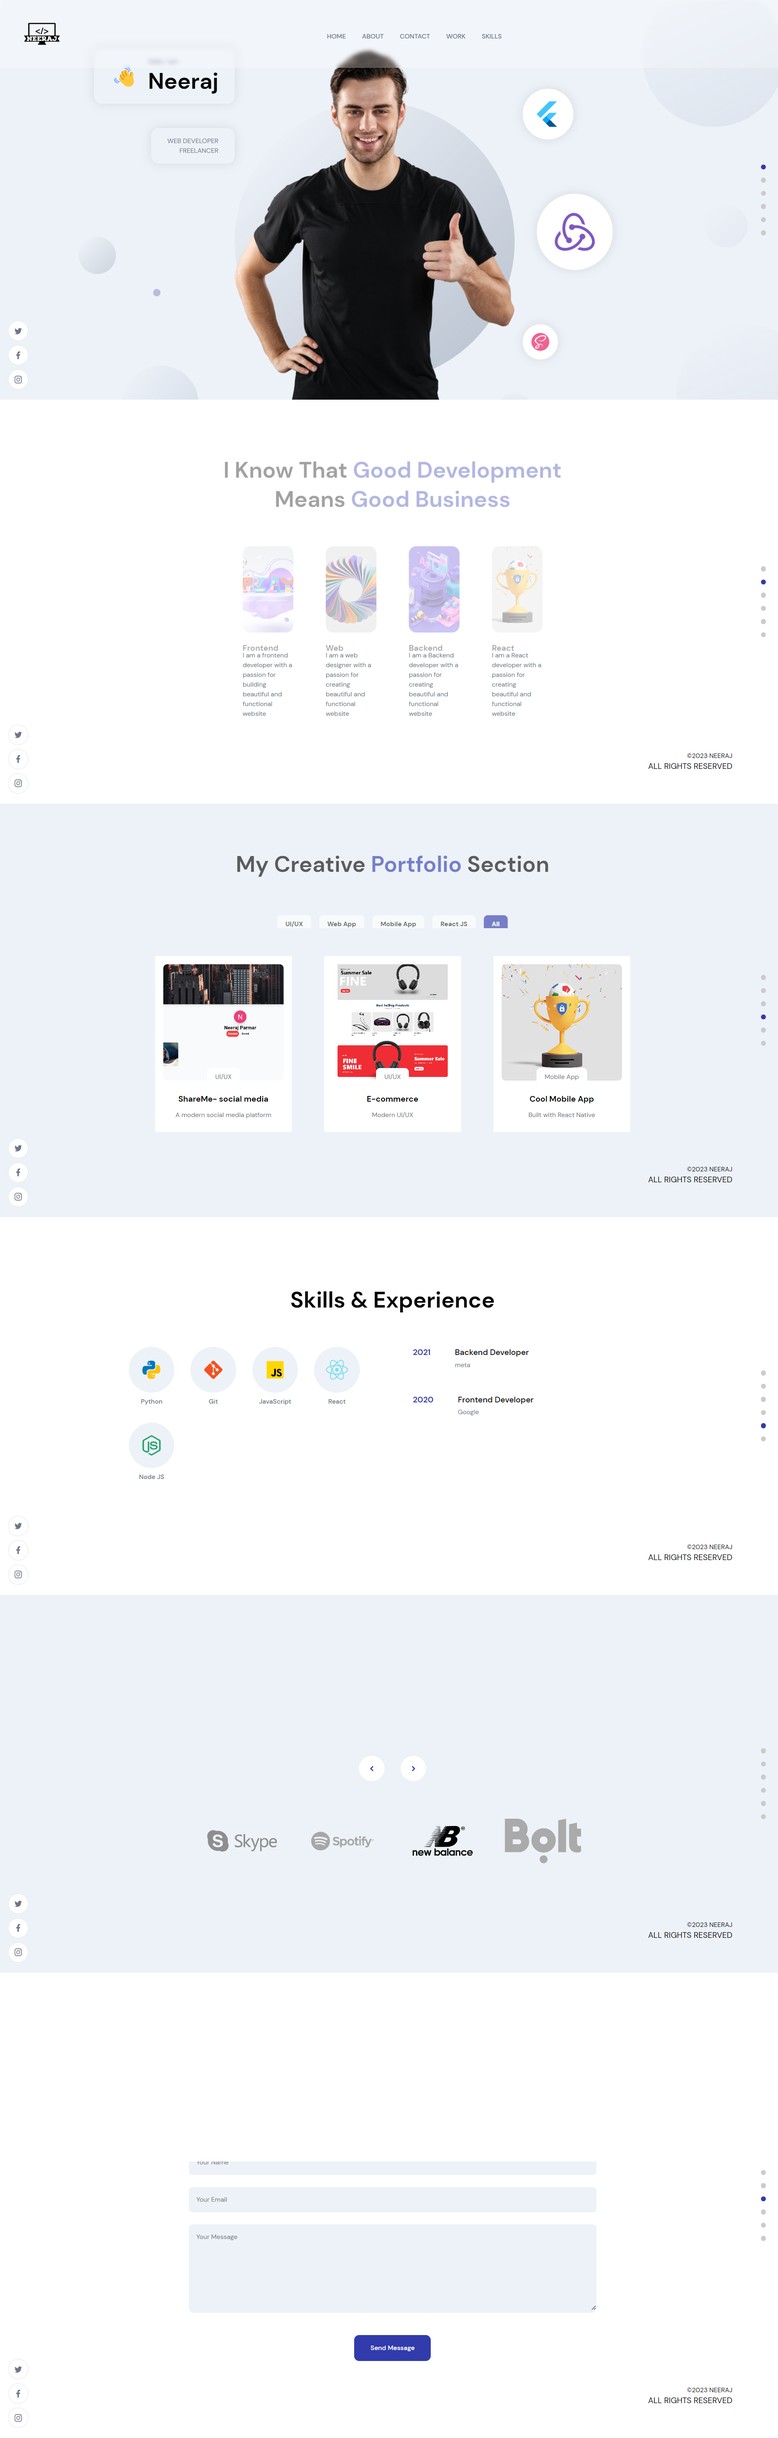
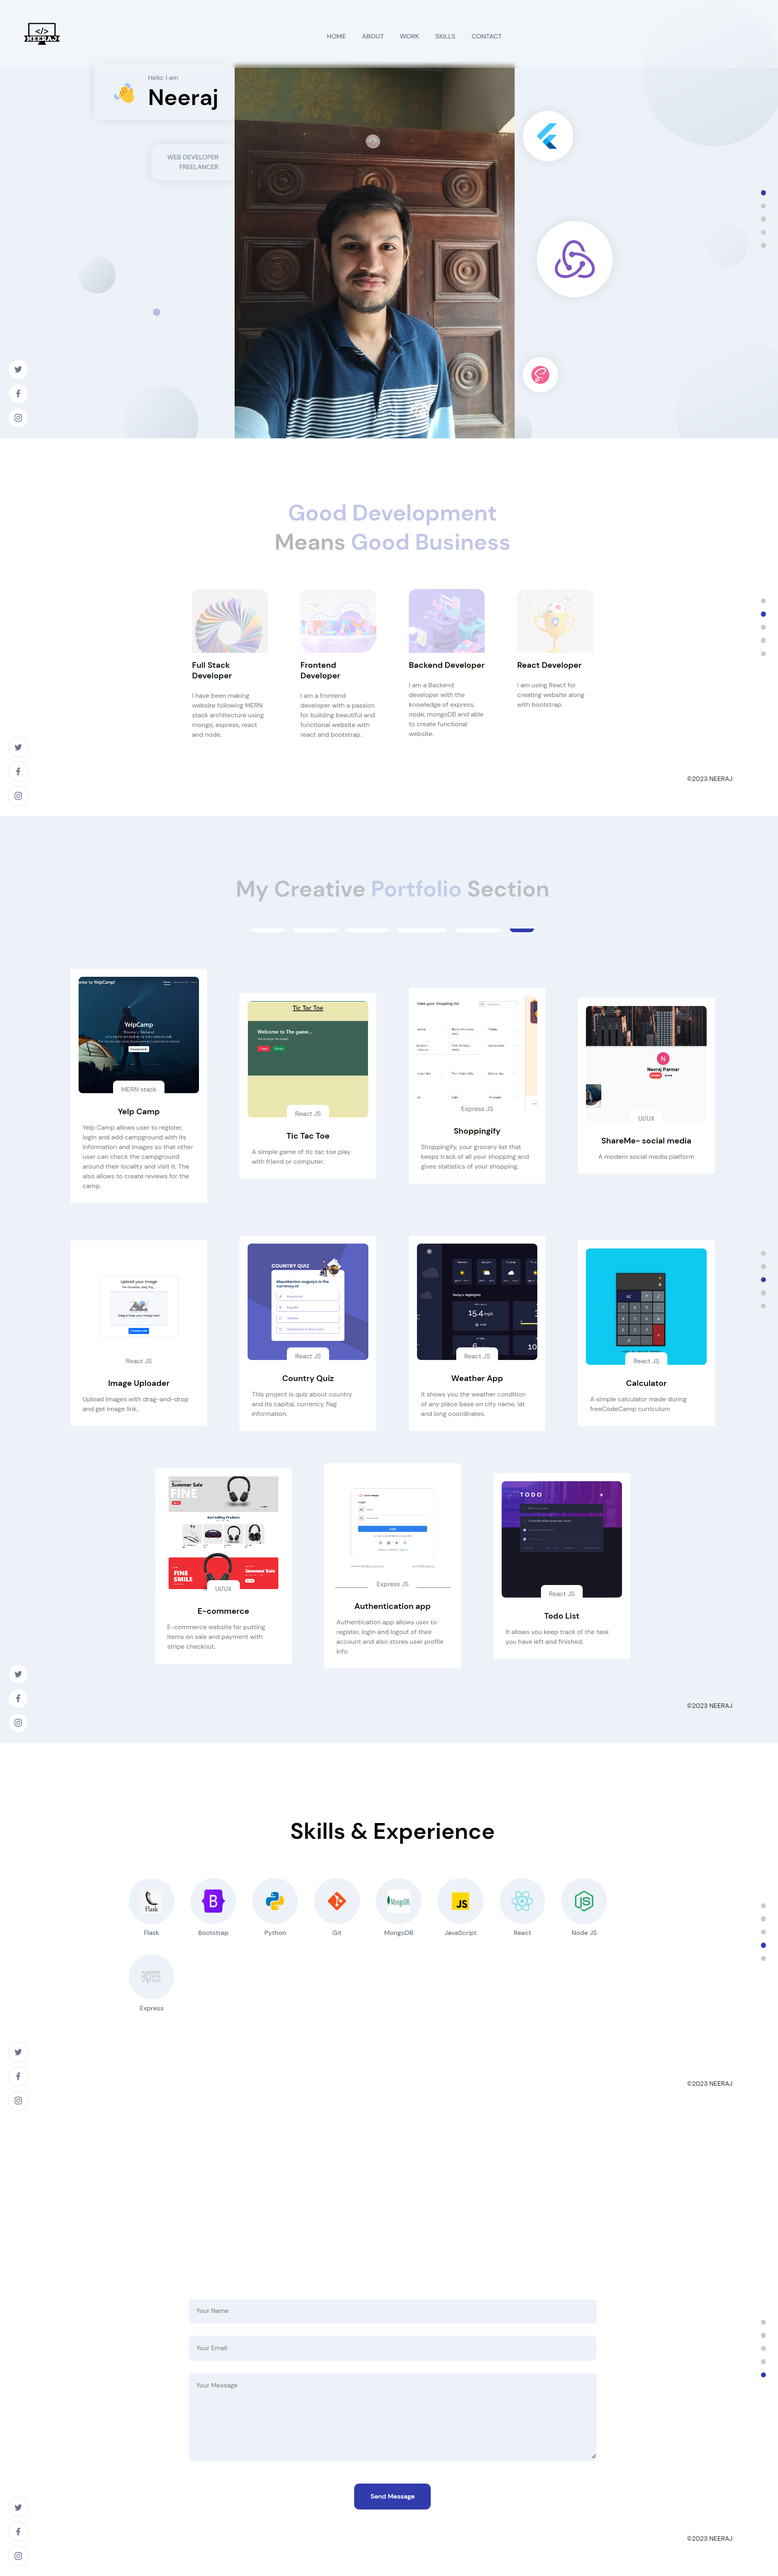
feat: add minor tweak

diff --git a/frontend_react/src/components/Navbar/Navbar.js b/frontend_react/src/components/Navbar/Navbar.js
@@ -5,6 +5,8 @@ import { motion } from 'framer-motion'
 import { images } from '../../constants'
 import "./Navbar.scss"
 
+const navigationLinks = ["home", "about", "work", "skills", "contact"]
+
 const Navbar = () => {
 
   const [toggle, setToggle] = useState(false);
@@ -14,7 +16,7 @@ const Navbar = () => {
         <img src={images.logo} alt="logo" />
       </div>
       <ul className='app__navbar-links'>
-        {["home", "about", "contact", "work", "skills"].map(item => (
+        {navigationLinks.map(item => (
           <li key={item}
             className="app__flex p-text">
             <div></div>
@@ -32,7 +34,7 @@ const Navbar = () => {
           >
             <HiX onClick={() => setToggle(false)} />
             <ul className="app__navbar-links">
-              {["home", "about", "contact", "work", "skills"].map(item => (
+              {navigationLinks.map(item => (
                 <li key={item}>
                   <a href={`#${item}`}
                     onClick={() => setToggle(false)}

diff --git a/frontend_react/src/constants/images.js b/frontend_react/src/constants/images.js
@@ -17,6 +17,9 @@ import redux from '../assets/redux.png';
 import sass from '../assets/sass.png';
 import typescript from '../assets/typescript.png';
 import vue from '../assets/vue.png';
+import express from '../assets/Expressjs.png'
+import mongodb from '../assets/mongodb.jpg'
+import bootstrap from '../assets/bootstrap.png'
 
 import about01 from '../assets/about01.png';
 import about02 from '../assets/about02.png';
@@ -69,4 +72,7 @@ export default {
   nb,
   skype,
   spotify,
+  express,
+  mongodb,
+  bootstrap
 };

diff --git a/frontend_react/src/components/NavigationDots.js b/frontend_react/src/components/NavigationDots.js
@@ -3,7 +3,7 @@ import React from 'react'
 const NavigationDots = ({ active }) => {
   return (
     <div className='app__navigation'>
-      {["home", "about", "contact", "work", "skills", "testimonials"].map((item, ind) => (
+      {["home", "about", "work", "skills", "contact"].map((item, ind) => (
         <a href={`#${item}`} key={item}
           className="app__navigation-dot"
           style={active === item ? { backgroundColor: "#313BAC" } : {}}

diff --git a/frontend_react/src/container/Work/Work.js b/frontend_react/src/container/Work/Work.js
@@ -44,7 +44,7 @@ const Work = () => {
         Section
       </h2>
       <div className="app__work-filter">
-        {["UI/UX", "Web App", "Mobile App", "React JS", "All"].map((item, ind) => (
+        {["UI/UX", "Frontend", "React JS", "Express JS", "Full Stack", "All"].map((item, ind) => (
           <div
             key={ind}
             onClick={() => handleWorkFilter(item)}

diff --git a/frontend_react/src/container/Header/Header.js b/frontend_react/src/container/Header/Header.js
@@ -64,7 +64,7 @@ const Header = () => {
         whileInView={scaleVariants.whileInView}
         className="app__header-circles"
       >
-        {[images.flutter, images.redux, images.sass].map((item, ind) => (
+        {[images.react, images.python, images.bootstrap].map((item, ind) => (
           <div className="circle-cmp app__flex"
             key={ind}
           >

diff --git a/frontend_react/src/wrapper/AppWrap.js b/frontend_react/src/wrapper/AppWrap.js
@@ -12,9 +12,8 @@ const AppWrap = (Component, idName, classNames) => function HOC() {
 
         <div className="copyright">
           <p className="p-text">
-            &copy;{new Date().getFullYear()} NEERAJ
+            &copy;2023 NEERAJ
           </p>
-          <p>All rights reserved</p>
         </div>
       </div>
       <NavigationDots active={idName} />

diff --git a/frontend_react/src/container/About/About.js b/frontend_react/src/container/About/About.js
@@ -19,7 +19,6 @@ const About = () => {
   return (
     <>
       <h2 className="head-text">
-        I Know That
         <span> Good Development</span>
         <br />
         means

diff --git a/frontend_react/src/container/Header/Header.scss b/frontend_react/src/container/Header/Header.scss
@@ -20,7 +20,7 @@
   height: 100%;
   flex-direction: row;
 
-  padding: 6rem 2rem 0;
+  padding: 8rem 2rem 0;
 
   @media screen and (min-width: 2000px) {
     padding-top: 8rem;

diff --git a/frontend_react/src/container/About/About.scss b/frontend_react/src/container/About/About.scss
@@ -13,7 +13,7 @@
 }
 
 .app__profile-item {
-  width: 100px;
+  width: 150px;
   display: flex;
   justify-content: flex-start;
   align-items: flex-start;
